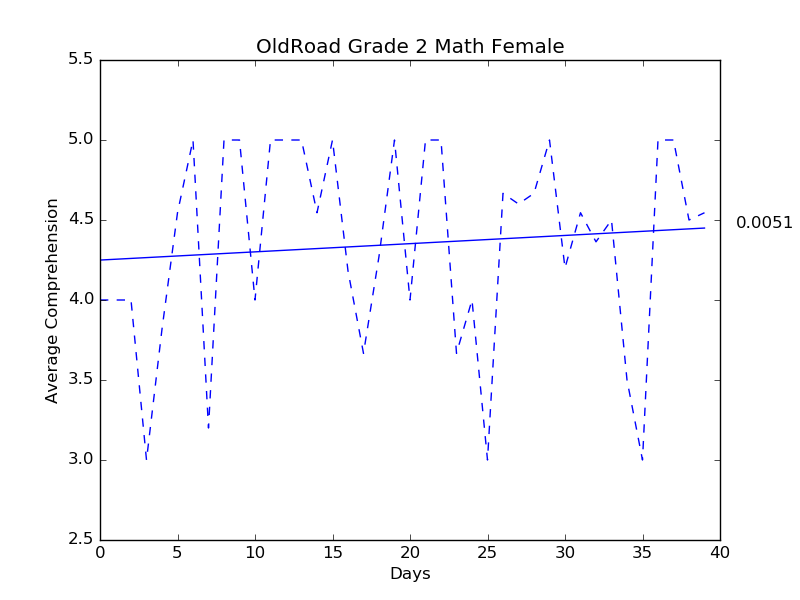
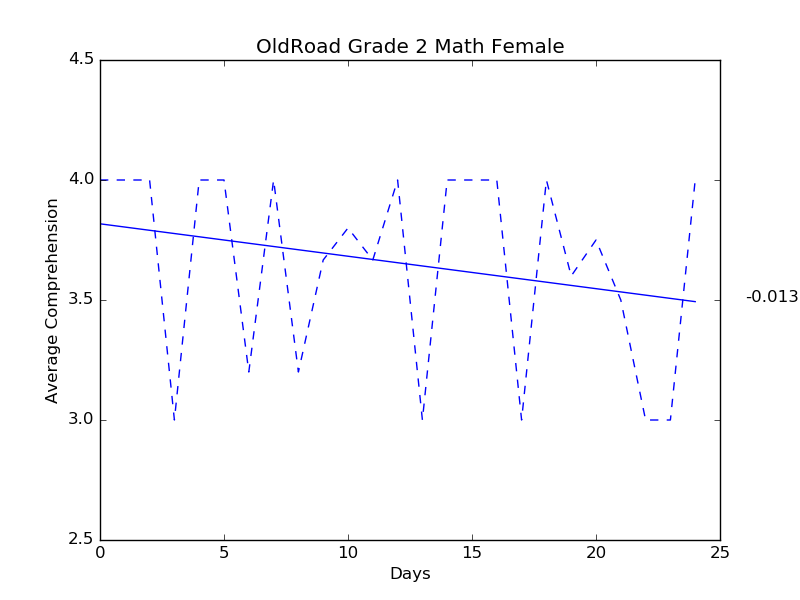
Producing new Comprehension Average Graph

diff --git a/wise.py b/wise.py
@@ -8,6 +8,7 @@ import collections
 import numpy as np
 from scipy.interpolate import spline
 import os
+import gc
 
 class School:
 	def __init__(self, name, generate_graphs=True, students={}, homeworks={}, dates=[]):
@@ -71,6 +72,7 @@ class School:
 
 	def getAverages(self, grade, subject, gender=False):
 		averages={}
+		sortedAverages={}
 		for date in self.dates:
 			compCount=0
 			compTotal=0
@@ -113,7 +115,7 @@ class School:
 
 
 
-	def plotGraph(self, filename, grade, subject, gender=False):
+	def plotGradeSubjectGraph(self, filename, grade, subject, gender=False):
 		data=self.getAverages(grade, subject, gender)
 		xdata=list(range(0, len(data)))
 		ydata=list(data.values())
@@ -124,10 +126,8 @@ class School:
 		# y_sm=np.array(ydata)
 		# x_smooth=np.linspace(x_sm.min(), x_sm.max(), 200)
 		# y_smooth=spline(xdata, ydata, x_smooth)
-		slope, intercept=np.polyfit(xdata, ydata,1)
-		vals=[]
-		for i in xdata:
-			vals.append(slope*i+intercept)
+		slope, intercept, vals=self.getLinearData(xdata,ydata)
+
 		plt.plot(xdata, ydata, '--')
 		plt.plot(xdata, vals, 'b')
 		plt.text(len(data)+1, vals[-1], str(slope)[0:6])
@@ -144,20 +144,106 @@ class School:
 		plt.savefig(self.name+"Graphs/"+filename+'.png')
 		plt.clf()
 
+	def getLinearData(self, xdata, ydata):
+		slope=0
+		intercept=0
+		slope, intercept=np.polyfit(xdata, ydata,1)
+		vals=[]
+		for i in xdata:
+			vals.append(slope*i+intercept)
+		return slope, intercept, vals
 
 	def generateGraphs(self):
 		#Creates Directory for files
 		if not os.path.exists(self.name+"Graphs"):
 			os.makedirs(self.name+"Graphs")
-		self.plotGraph(self.name+"Grade2MathMale",2,'math','m')
-		self.plotGraph(self.name+"Grade2MathFemale",2,'math','f')
-		self.plotGraph(self.name+"Grade2EngMale",2,'eng','m')
-		self.plotGraph(self.name+"Grade2EngFemale",2,'eng','f')
-		self.plotGraph(self.name+"Grade4MathMale",4,'math','m')
-		self.plotGraph(self.name+"Grade4MathFemale",4,'math','f')
-		self.plotGraph(self.name+"Grade4EngMale",4,'eng','m')
-		self.plotGraph(self.name+"Grade4EngFemale",4,'eng','f')
+		self.plotGradeSubjectGraph(self.name+"Grade2MathMale",2,'math','m')
+		self.plotGradeSubjectGraph(self.name+"Grade2MathFemale",2,'math','f')
+		self.plotGradeSubjectGraph(self.name+"Grade2Math",2,'math')
+		self.plotGradeSubjectGraph(self.name+"Grade2EngMale",2,'eng','m')
+		self.plotGradeSubjectGraph(self.name+"Grade2EngFemale",2,'eng','f')
+		self.plotGradeSubjectGraph(self.name+"Grade2Eng",2,'eng')
+		self.plotGradeSubjectGraph(self.name+"Grade4MathMale",4,'math','m')
+		self.plotGradeSubjectGraph(self.name+"Grade4MathFemale",4,'math','f')
+		self.plotGradeSubjectGraph(self.name+"Grade4Math",4,'math')
+		self.plotGradeSubjectGraph(self.name+"Grade4EngMale",4,'eng','m')
+		self.plotGradeSubjectGraph(self.name+"Grade4MathFemale",4,'math','f')
+		self.plotGradeSubjectGraph(self.name+"Grade4Math",4,'math')
+
+	def getTotalComprehensionAverages(self):
 		
+		# calculates the begin and end average for each subject and grade
[1 lines of base64/hex data omitted]
+		grade2MathBegin, grade2MathEnd = self.getSubjectGradeComprehensionAverages(2,'math')
+		grade4MathBegin, grade4MathEnd = self.getSubjectGradeComprehensionAverages(4,'math')
+		grade2EngBegin, grade2EngEnd = self.getSubjectGradeComprehensionAverages(2, 'eng')
+		grade4EngBegin, grade4EngEnd = self.getSubjectGradeComprehensionAverages(4, 'eng')
+		
+		# calculating total begin and end average for the school
+		beginAvg=endAvg=0
+		schoolbeginAvg=(grade2MathBegin+grade4MathBegin+grade2EngBegin+grade4EngBegin)/4
+		schoolendAvg=(grade2MathEnd+grade4MathEnd+grade2EngEnd+grade4EngEnd)/4
+
+		return schoolbeginAvg, schoolendAvg
+	def getSubjectGradeComprehensionAverages(self, grade, subject):
+		averages={}
+		xdata=[]
+		ydata=[]
+		slope=0
+		intercept=0
+		vals=[]
+		beginAvg=0
+		endAvg=0
+		averages=self.getAverages(grade, subject)
+		xdata=list(range(0, len(averages)))
+		ydata=list(averages.values())
+		slope, intercept, vals=self.getLinearData(xdata, ydata)
+		beginAvg=vals[0]
+		endAvg=vals[-1]
+		# print(grade)
+		# print(subject)
+		# print(beginAvg)
+		# print(endAvg)
+		return beginAvg, endAvg
+
+def generateComprehensionGraph(schools=False):
+	if schools==False:
+		schools=[ "Freeman"]
+	i=1
+	xtotaldata=[]
+	ytotaldata=[]
+	schoolList=[]
+	for s in schools:
+		school=School(s, False)
+		schoolList.append(school)
+		beginAvg=0
+		endAvg=0
+		beginAvg, endAvg = school.getTotalComprehensionAverages()
+		ytotaldata.append(beginAvg)
+		ytotaldata.append(endAvg)
+		ydata=[beginAvg, endAvg]
+		print(school.name)
+		print(beginAvg)
+		print(endAvg)
+		xdata=[i,i]
+		xtotaldata.append(i)
+		xtotaldata.append(i)
+		if endAvg > beginAvg:
+			plt.plot(xdata, ydata, 'g-', linewidth=10.0)
+			plt.text(i,endAvg+0.05, school.name, horizontalalignment='center')
+		else:
+			plt.plot(xdata,ydata, 'r-', linewidth=10.0)
+			plt.text(i,beginAvg+0.05, school.name, horizontalalignment='center')
+		i+=1
+		gc.collect()
+
+	plt.title("Comprehension Comparison Grade")
+	plt.ylabel("Average Comprehension")
+	plt.xlabel("Schools")
+	plt.axis([0,len(schools)+1, min(ytotaldata)-0.2, max(ytotaldata)+0.2])
+	plt.savefig('ComprehensionComparisonFreeman.png')
+	plt.clf()
+
 	
 class Student:
 	# GRADE 2 CODES
@@ -196,10 +282,3 @@ class Homework:
 		self.date=date
 
 
-def createSchools():
-	schools=[]
-	freeman=School("Freeman")
-	schools.append(freeman)
-	oldRoad=School("OldRoad")
-	schools.append(oldRoad)
-	return schools
